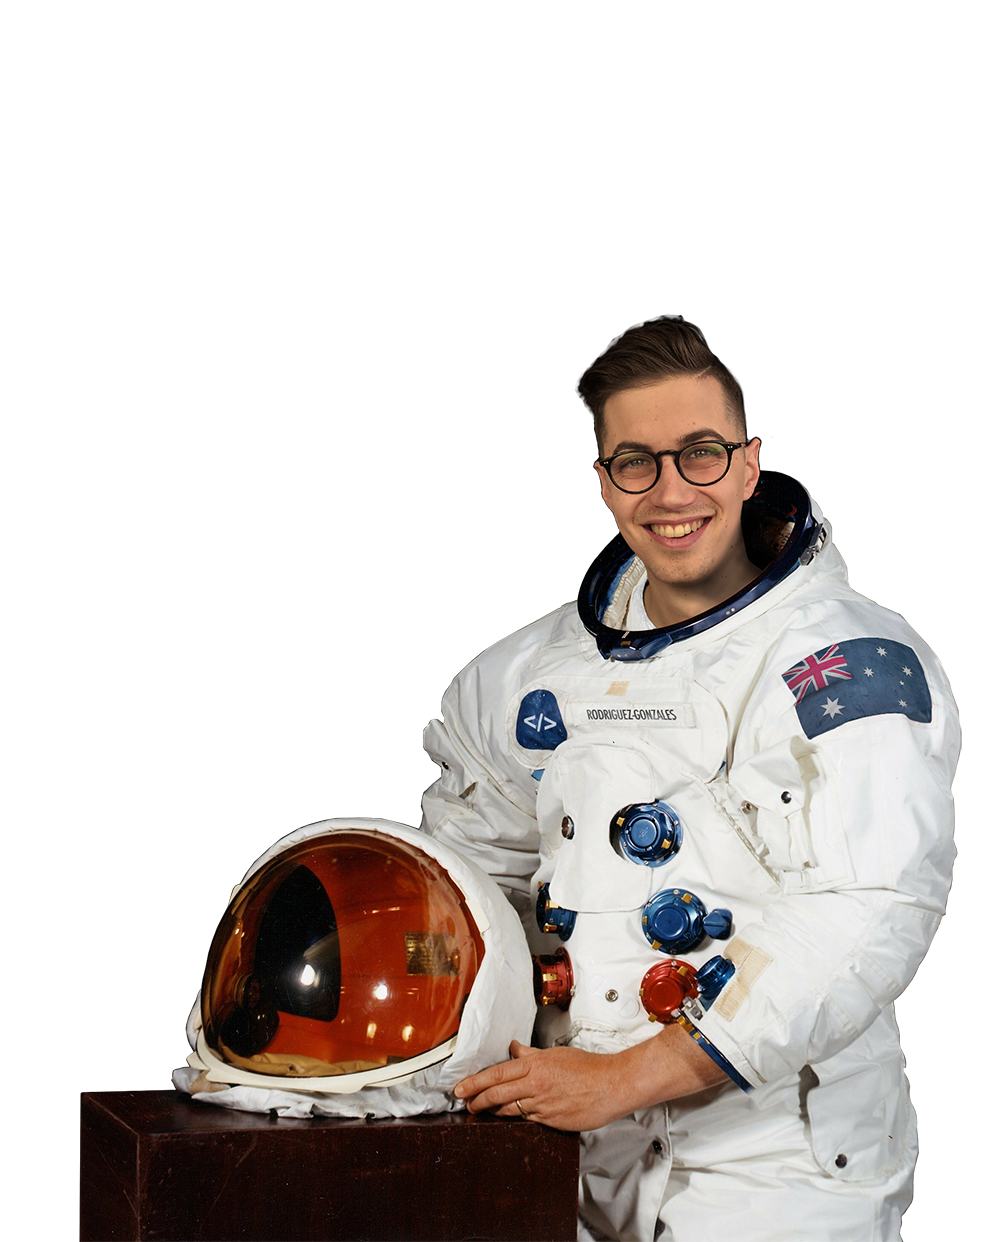
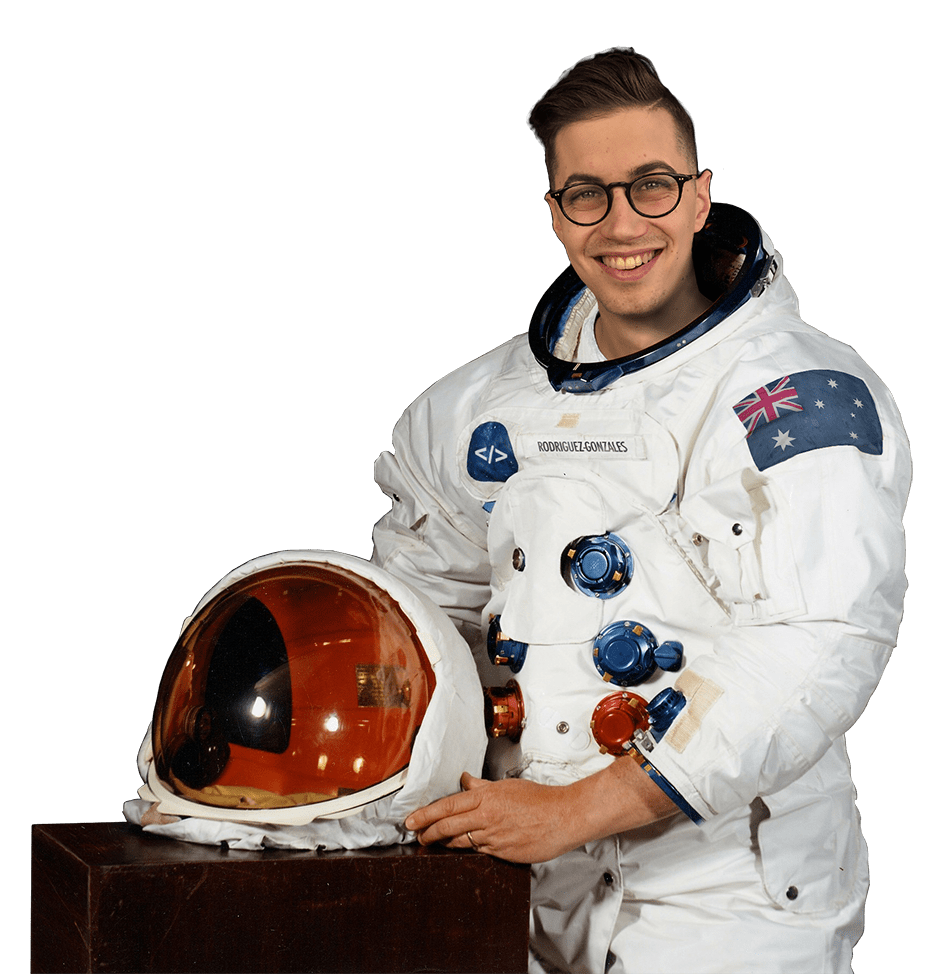
Add mugshot to skills page
Add new h1 treatment
Add a white background to the main menu to go over the top of the mughsot
Add style for img so that it has max width 100%

diff --git a/app/assets/stylesheets/main.css b/app/assets/stylesheets/main.css
@@ -25,6 +25,13 @@
 
 \*------------------------------------*/
 /*------------------------------------*\
+  # SETUP
+\*------------------------------------*/
+@import url("https://use.typekit.net/mki5wwj.css");
+img {
+  max-width: 100%; }
+
+/*------------------------------------*\
   # SETTINGS and VARIABLES
 \*------------------------------------*/
 /*------------------------------------*\
@@ -43,7 +50,6 @@
 /**
  * 1. Correct the line height in all browsers.
  * 2. Prevent adjustments of font size after orientation changes in iOS. */
-@import url("https://use.typekit.net/mki5wwj.css");
 html {
   line-height: 1.15;
   /* 1 */
@@ -1970,6 +1976,11 @@ a {
   .c-article h1, .c-article .h1 {
     margin-top: 0;
     margin-bottom: 0.4em; }
+  .c-article .h1-blocked-white {
+    background: #ffffff;
+    padding: 0.4em 0.8em 0.4em 0.4em;
+    margin-left: -0.4em;
+    margin-bottom: 0; }
   .c-article p {
     margin-bottom: 0.87em;
     line-height: 1.3;
@@ -2002,8 +2013,11 @@ a {
   This should only appear once on the site
 \*------------------------------------*/
 .c-navigation-main {
+  background: #ffffff;
   font-family: "futura-pt", Futura, "Trebuchet MS", Arial, sans-serif;
-  font-weight: 700; }
+  font-weight: 700;
+  position: relative;
+  z-index: 5000; }
 
 .c-navigation-main__link {
   padding: 0.1em 0.2em;
@@ -2137,6 +2151,26 @@ a {
 /*------------------------------------*\
   # UMBILICAL POSITIONING
 \*------------------------------------*/
+/*------------------------------------*\
+  # MUGHOST OF MA FACE MATE
+\*------------------------------------*/
+.c-mugshot {
+  background: #000000;
+  position: relative; }
+
+.c-mugshot__coaster {
+  background: #000000;
+  box-sizing: border-box;
+  padding-top: 60px;
+  position: absolute;
+  width: 100%;
+  padding: 10%; }
+
+.c-mugshot__mug {
+  display: block;
+  border-bottom-right-radius: 100%;
+  border-bottom-left-radius: 100%; }
+
 /*------------------------------------*\
   # UTILITIES
 \*------------------------------------*/

diff --git a/app/assets/stylesheets/components/_mugshot.scss b/app/assets/stylesheets/components/_mugshot.scss
@@ -1,0 +1,24 @@
+/*------------------------------------*\
+  # MUGHOST OF MA FACE MATE
+\*------------------------------------*/
+
+.c-mugshot {
+  background: $color__black;
+  position: relative;
+}
+
+  .c-mugshot__coaster {
+    background: $color__black;
+
+    box-sizing: border-box;
+    padding-top: 60px;
+    position: absolute;
+    width: 100%;
+    padding: 10%;
+  }
+
+  .c-mugshot__mug {
+    display: block;
+    border-bottom-right-radius: 100%;
+    border-bottom-left-radius: 100%;
+  }

diff --git a/app/assets/stylesheets/main.scss b/app/assets/stylesheets/main.scss
@@ -27,6 +27,12 @@
 
 
 /*------------------------------------*\
+  # SETUP
+\*------------------------------------*/
+@import "base/site-wides";
+
+
+/*------------------------------------*\
   # SETTINGS and VARIABLES
 \*------------------------------------*/
 
@@ -75,6 +81,7 @@
 
 @import "components/space-walker";
 @import "components/deep-space";
+@import "components/mugshot";
 
 /*------------------------------------*\
   # UTILITIES

diff --git a/app/assets/stylesheets/components/_navigation-main.scss b/app/assets/stylesheets/components/_navigation-main.scss
@@ -5,8 +5,12 @@
 \*------------------------------------*/
 
 .c-navigation-main {
+  background: $color__white;
   font-family: $font__sans-serif-alt;
   font-weight: 700;
+
+  position: relative;
+  z-index: $z-index5;
 }
 
 .c-navigation-main__link {

diff --git a/app/assets/stylesheets/components/_articles.scss b/app/assets/stylesheets/components/_articles.scss
@@ -18,6 +18,14 @@
     margin-bottom: 0.4em;
   }
 
+  .h1-blocked-white {
+    background: $color__white;
+
+    padding: 0.4em 0.8em 0.4em 0.4em;
+    margin-left: -0.4em;
+    margin-bottom: 0;
+  }
+
 
 
 

diff --git a/app/assets/stylesheets/base/_site-wides.scss b/app/assets/stylesheets/base/_site-wides.scss
@@ -1,0 +1,3 @@
+img {
+  max-width: 100%;
+}
